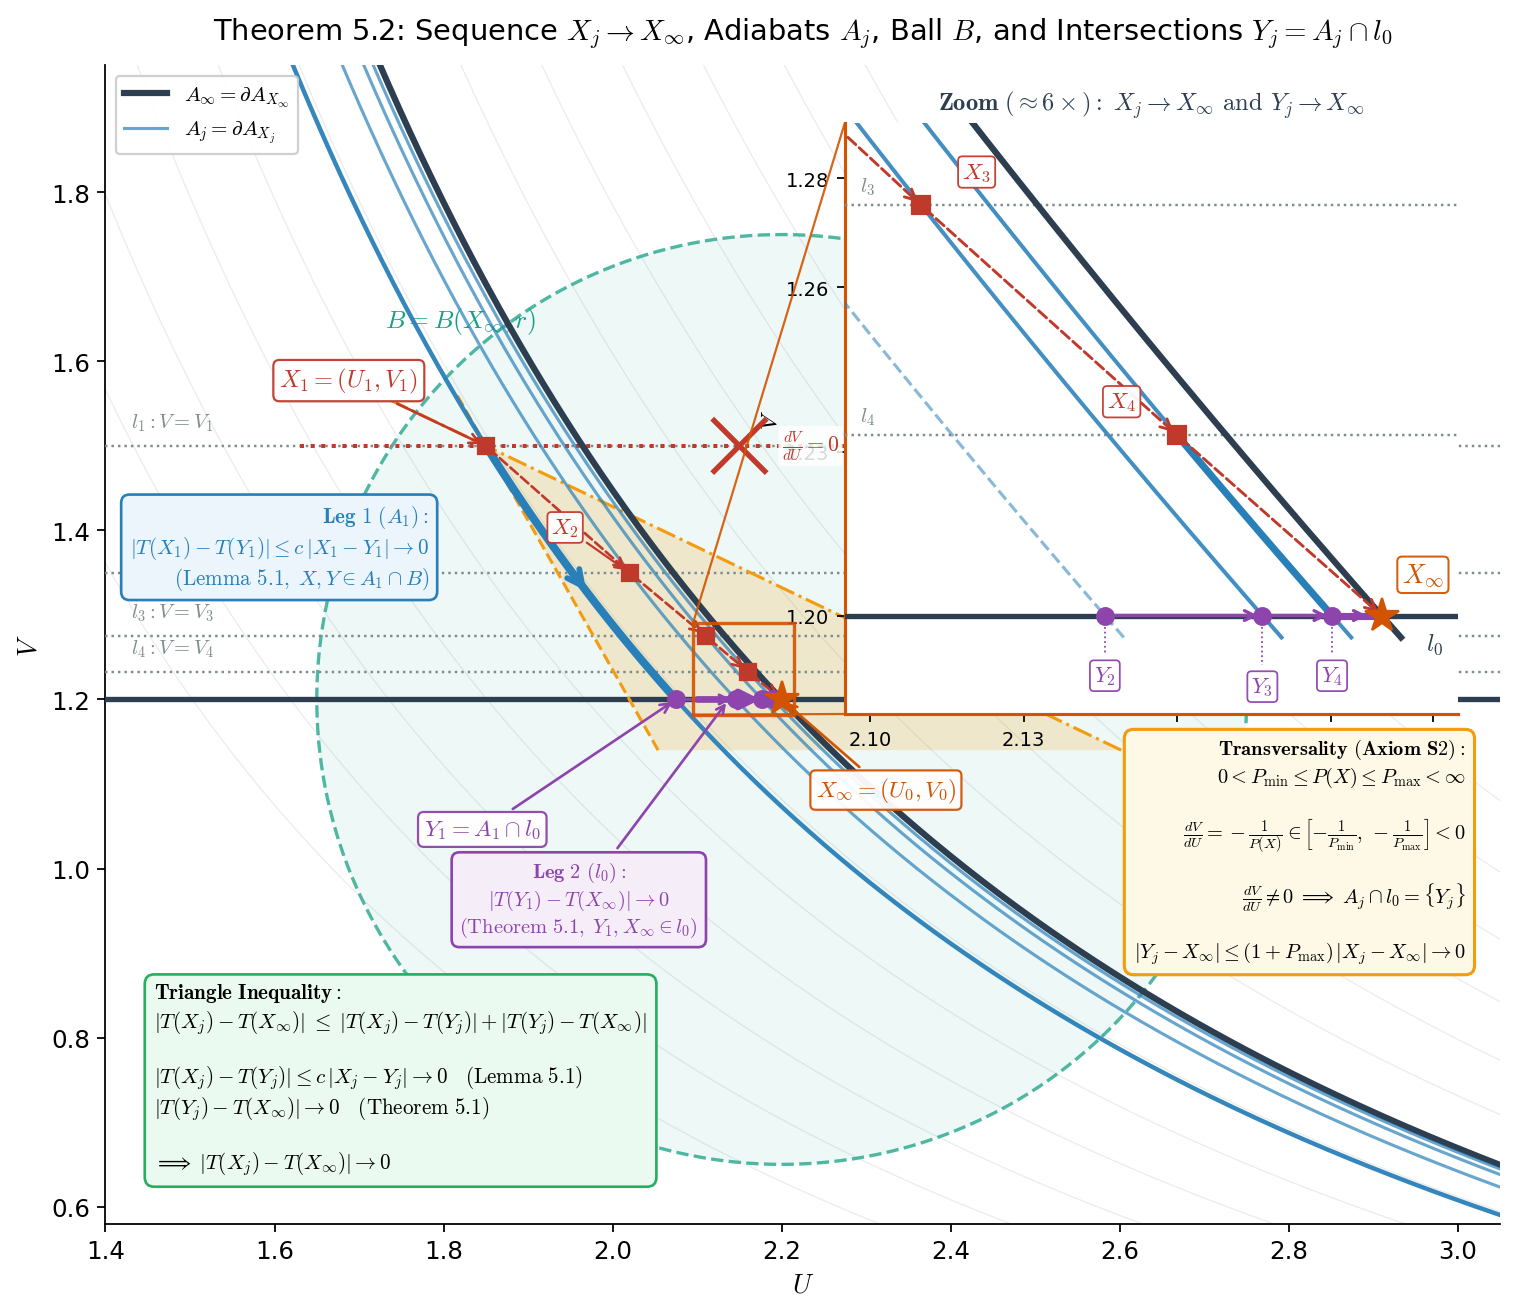
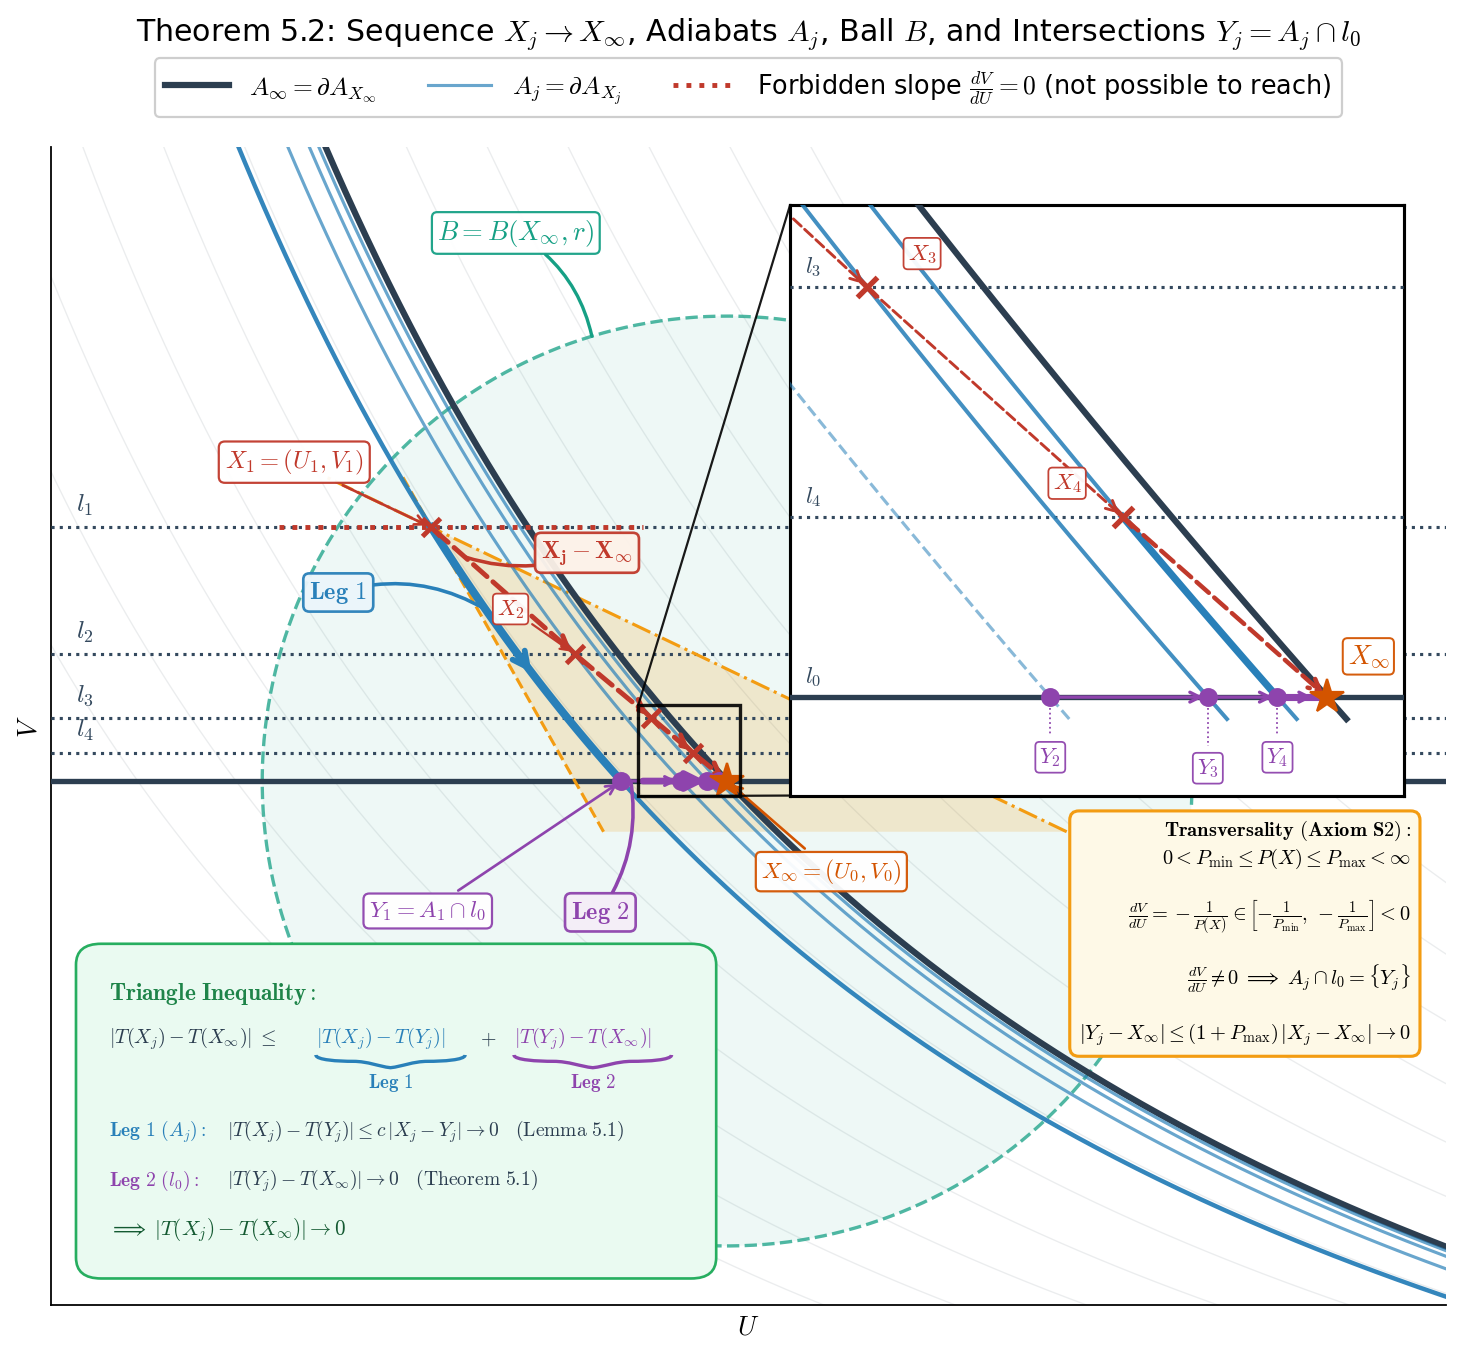
Polishing

diff --git a/Theorem_5-2/theorem52_visualization.py b/Theorem_5-2/theorem52_visualization.py
@@ -31,7 +31,8 @@ import os
 import sys
 import numpy as np
 import matplotlib.pyplot as plt
-from matplotlib.patches import Polygon
+from matplotlib.patches import Polygon, FancyBboxPatch, PathPatch
+from matplotlib.path import Path
 
 sys.path.insert(0, os.path.dirname(os.path.abspath(__file__)))
 from theorem52_model import (
@@ -58,7 +59,7 @@ C_ADIA_J = "#2980b9"   # sequence adiabats A_j                      (blue)
 C_PTS = "#c0392b"      # sequence points X_j                        (crimson)
 C_INTER = "#8e44ad"    # intersection points Y_j on l_0             (purple)
 C_L0 = "#2c3e50"       # base horizontal line l_0                   (dark slate)
-C_LJ = "#7f8c8d"       # horizontal lines l_j                       (grey)
+C_LJ = "#34495e"       # horizontal lines l_j                       (dark slate grey)
 C_BALL = "#16a085"     # neighborhood ball B                        (teal)
 C_CONE = "#f39c12"     # transversality cone                        (amber)
 C_LEG1 = "#2980b9"     # Leg 1 (along adiabat)                      (blue)
@@ -67,6 +68,31 @@ C_OK = "#27ae60"       # resolution / conclusion                    (green)
 C_BAD = "#c0392b"      # forbidden direction                        (red)
 
 script_dir = os.path.dirname(os.path.abspath(__file__))
+
+
+def add_curly_brace(ax, x1, x2, y, depth=0.012, color="blue", lw=1.5, zorder=20, transform=None):
+    """Draws a smooth curly underbrace pointing downwards between x1 and x2 at level y."""
+    mid = 0.5 * (x1 + x2)
+    w = x2 - x1
+    d = depth
+    verts = [
+        (x1, y),
+        (x1, y - 0.4 * d), (x1 + 0.15 * w, y - 0.5 * d), (x1 + 0.25 * w, y - 0.5 * d),
+        (mid - 0.15 * w, y - 0.5 * d), (mid - 0.08 * w, y - 0.9 * d), (mid, y - d),
+        (mid + 0.08 * w, y - 0.9 * d), (mid + 0.15 * w, y - 0.5 * d), (x2 - 0.25 * w, y - 0.5 * d),
+        (x2 - 0.15 * w, y - 0.5 * d), (x2, y - 0.4 * d), (x2, y)
+    ]
+    codes = [
+        Path.MOVETO,
+        Path.CURVE4, Path.CURVE4, Path.CURVE4,
+        Path.CURVE4, Path.CURVE4, Path.CURVE4,
+        Path.CURVE4, Path.CURVE4, Path.CURVE4,
+        Path.CURVE4, Path.CURVE4, Path.CURVE4
+    ]
+    patch = PathPatch(Path(verts, codes), facecolor="none", edgecolor=color,
+                      lw=lw, zorder=zorder, transform=transform, clip_on=False)
+    ax.add_patch(patch)
+    return patch
 
 
 def make_single_proof_plot_accentuated_zoom():
@@ -91,9 +117,15 @@ def make_single_proof_plot_accentuated_zoom():
     b_v = V0 + BALL_RADIUS * np.sin(phi)
     ax.fill(b_u, b_v, color=C_BALL, alpha=0.07, zorder=2, lw=0)
     ax.plot(b_u, b_v, color=C_BALL, ls="--", lw=1.5, alpha=0.75, zorder=2)
-    ax.text(U0 - 0.38, V0 + 0.43,
-            r"$B = B(X_\infty, r)$",
-            color=C_BALL, fontsize=11.5, fontweight="bold", ha="center", va="bottom")
+    # Curved link from ball label to the ball boundary itself
+    ax.annotate(r"$B = B(X_\infty, r)$",
+                xy=(2.04, 1.7262),
+                xytext=(1.95, 1.83),
+                arrowprops=dict(arrowstyle="-", connectionstyle="arc3,rad=-0.22",
+                                color=C_BALL, lw=1.5, shrinkA=0, shrinkB=0),
+                color=C_BALL, fontsize=12.0, fontweight="bold", ha="center", va="bottom",
+                bbox=dict(boxstyle="round,pad=0.20", fc="white", ec=C_BALL, lw=1.0, alpha=0.95),
+                zorder=10)
 
     # 3. Base Horizontal Line l_0: V = V_0
     ax.axhline(V0, color=C_L0, lw=2.4, zorder=3)
@@ -114,11 +146,11 @@ def make_single_proof_plot_accentuated_zoom():
         Vj = Xj[1]
         Kj = adiabat_const(*Xj)
 
-        # Horizontal line l_j: V = V_j
-        ax.axhline(Vj, color=C_LJ, ls=":", lw=1.1, zorder=3)
-        ax.text(u_min + 0.03, Vj + 0.015,
-                rf"$l_{j}: V = V_{j}$",
-                color=C_LJ, fontsize=9.2, ha="left", va="bottom")
+        # Horizontal line l_j
+        ax.axhline(Vj, color=C_LJ, ls=":", lw=1.4, zorder=3)
+        ax.text(u_min + 0.03, Vj + 0.012,
+                rf"$l_{j}$",
+                color=C_LJ, fontsize=11.5, fontweight="bold", ha="left", va="bottom")
 
         # Adiabat A_j through X_j
         line_w = 2.0 if j == 1 else 1.4
@@ -128,7 +160,7 @@ def make_single_proof_plot_accentuated_zoom():
                 alpha=alp, zorder=4, label=lbl)
 
         # Plot points X_j and Y_j
-        ax.plot(Xj[0], Xj[1], "s", color=C_PTS, ms=7.5, zorder=7)
+        ax.plot(Xj[0], Xj[1], "x", color=C_PTS, ms=8.5, mew=2.2, zorder=7)
         ax.plot(Yj[0], Yj[1], "o", color=C_INTER, ms=7.5, zorder=7)
 
         # Label points X_j on main plot with clean protective white boxes
@@ -149,15 +181,15 @@ def make_single_proof_plot_accentuated_zoom():
                         bbox=dict(boxstyle="round,pad=0.18", fc="white", ec=C_PTS, lw=0.8, alpha=0.95),
                         zorder=9)
 
-    # Directional arrows for X_j -> X_infinity on main plot
+    # Directional arrows for X_j -> X_infinity on main plot (direct path X_j - X_infinity)
     for j in range(len(seq_X) - 1):
         ax.annotate("", xy=(seq_X[j+1][0], seq_X[j+1][1]),
                     xytext=(seq_X[j][0], seq_X[j][1]),
-                    arrowprops=dict(arrowstyle="->", color=C_PTS, ls="--", lw=1.2,
-                                    mutation_scale=11), zorder=6)
+                    arrowprops=dict(arrowstyle="->", color=C_PTS, ls="--", lw=2.2,
+                                    mutation_scale=13), zorder=6)
     ax.annotate("", xy=(X0[0], X0[1]), xytext=(seq_X[-1][0], seq_X[-1][1]),
-                arrowprops=dict(arrowstyle="->", color=C_PTS, ls="--", lw=1.2,
-                                mutation_scale=11), zorder=6)
+                arrowprops=dict(arrowstyle="->", color=C_PTS, ls="--", lw=2.2,
+                                mutation_scale=13), zorder=6)
 
     # 6. Intersection points Y_j on l_0 on main plot (uncovered by any line)
     Y1 = seq_Y[0]
@@ -206,24 +238,38 @@ def make_single_proof_plot_accentuated_zoom():
                 arrowprops=dict(arrowstyle="->", color=C_LEG2, lw=3.0,
                                 mutation_scale=17), zorder=6)
 
-    # Card for Leg 1 (no sentences, purely symbolic, zorder=15 in front of curves)
-    ax.text(0.5 * (X1[0] + Y1[0]) - 0.18, 0.5 * (X1[1] + Y1[1]) + 0.03,
-            r"$\mathbf{Leg\ 1}\ (A_1):$" "\n"
-            r"$|T(X_1) - T(Y_1)| \leq c\,|X_1 - Y_1| \rightarrow 0$" "\n"
-            r"$(\mathrm{Lemma\ 5.1},\; X, Y \in A_1 \cap B)$",
-            color=C_LEG1, fontsize=9.5, ha="right", va="center",
-            bbox=dict(boxstyle="round,pad=0.40", fc="#ebf5fb", ec=C_LEG1, lw=1.2, alpha=1.0),
-            zorder=15)
+    # Leg 1 indication with curved link to the blue path along A_1 (no math)
+    leg1_target_idx = 32
+    ax.annotate(r"$\mathbf{Leg\ 1}$",
+                xy=(u_path[leg1_target_idx], v_path[leg1_target_idx]),
+                xytext=(u_path[leg1_target_idx] - 0.14, v_path[leg1_target_idx] + 0.02),
+                arrowprops=dict(arrowstyle="-", connectionstyle="arc3,rad=-0.22",
+                                color=C_LEG1, lw=1.6, shrinkA=0, shrinkB=0),
+                color=C_LEG1, fontsize=11.0, fontweight="bold", ha="right", va="center",
+                bbox=dict(boxstyle="round,pad=0.25", fc="#ebf5fb", ec=C_LEG1, lw=1.2, alpha=0.95),
+                zorder=15)
 
-    # Card for Leg 2 (placed right below the purple path on l_0, zorder=15 in front of curves)
-    ax.annotate(r"$\mathbf{Leg\ 2}\ (l_0):$" "\n"
-                r"$|T(Y_1) - T(X_\infty)| \rightarrow 0$" "\n"
-                r"$(\mathrm{Theorem\ 5.1},\; Y_1, X_\infty \in l_0)$",
-                xy=(0.5 * (Y1[0] + X0[0]), V0),
-                xytext=(1.96, 1.01),
-                arrowprops=dict(arrowstyle="->", color=C_LEG2, lw=1.2),
-                color=C_LEG2, fontsize=9.2, ha="center", va="top",
-                bbox=dict(boxstyle="round,pad=0.38", fc="#f5eef8", ec=C_LEG2, lw=1.2, alpha=1.0),
+    # Leg 2 indication with curved link to the purple path along l_0 (no math)
+    leg2_target_u = 2.086
+    ax.annotate(r"$\mathbf{Leg\ 2}$",
+                xy=(leg2_target_u, V0),
+                xytext=(2.05, V0 - 0.14),
+                arrowprops=dict(arrowstyle="-", connectionstyle="arc3,rad=0.20",
+                                color=C_LEG2, lw=1.6, shrinkA=0, shrinkB=0),
+                color=C_LEG2, fontsize=11.0, fontweight="bold", ha="center", va="top",
+                bbox=dict(boxstyle="round,pad=0.25", fc="#f5eef8", ec=C_LEG2, lw=1.2, alpha=0.95),
+                zorder=15)
+
+    # Direct vector / displacement X_j - X_infinity indication (for j=1)
+    target_u = 1.890
+    target_v = 1.465
+    ax.annotate(r"$\mathbf{X_j - X_\infty}$",
+                xy=(target_u, target_v),
+                xytext=(1.980, 1.470),
+                arrowprops=dict(arrowstyle="-", connectionstyle="arc3,rad=-0.18",
+                                color=C_PTS, lw=1.6, shrinkA=0, shrinkB=0),
+                color=C_PTS, fontsize=11.0, fontweight="bold", ha="left", va="center",
+                bbox=dict(boxstyle="round,pad=0.25", fc="#fdf2e9", ec=C_PTS, lw=1.2, alpha=0.95),
                 zorder=15)
 
     # 9. Transversality Cone on main plot
@@ -241,24 +287,54 @@ def make_single_proof_plot_accentuated_zoom():
     ax.plot(X1[0] + (v_cone - X1[1]) / s_min, v_cone, color=C_CONE, ls="--", lw=1.4, zorder=3)
     ax.plot(X1[0] + (v_cone - X1[1]) / s_max, v_cone, color=C_CONE, ls="-.", lw=1.4, zorder=3)
 
-    # Forbidden zero slope
-    x_cross = 2.15
-    ax.plot([X1[0] - 0.22, x_cross + 0.15], [X1[1], X1[1]], color=C_BAD, ls=":", lw=1.8, zorder=3)
-    ax.plot([x_cross - 0.03, x_cross + 0.03], [X1[1] - 0.03, X1[1] + 0.03], color=C_BAD, lw=2.4, zorder=6)
-    ax.plot([x_cross - 0.03, x_cross + 0.03], [X1[1] + 0.03, X1[1] - 0.03], color=C_BAD, lw=2.4, zorder=6)
-    ax.text(x_cross + 0.05, X1[1], r"$\frac{dV}{dU} = 0$", color=C_BAD, fontsize=9.8, va="center",
-            bbox=dict(boxstyle="round,pad=0.15", fc="white", ec="none", alpha=0.85), zorder=7)
+    # Forbidden zero slope (transversality forbids horizontal tangency dV/dU = 0)
+    ax.plot([X1[0] - 0.18, 2.10], [X1[1], X1[1]], color=C_BAD, ls=":", lw=2.2, zorder=4,
+            label=r"Forbidden slope $\frac{dV}{dU} = 0$ (not possible to reach)")
 
     # 10. Summary Triangle Inequality Card (bottom left, zorder=15 in front of curves)
-    ax.text(0.035, 0.04,
-            r"$\mathbf{Triangle\ Inequality}:$" "\n"
-            r"$|T(X_j) - T(X_\infty)| \;\leq\; |T(X_j) - T(Y_j)| + |T(Y_j) - T(X_\infty)|$" "\n\n"
-            r"$|T(X_j) - T(Y_j)| \leq c\,|X_j - Y_j| \rightarrow 0 \quad (\mathrm{Lemma\ 5.1})$" "\n"
-            r"$|T(Y_j) - T(X_\infty)| \rightarrow 0 \quad (\mathrm{Theorem\ 5.1})$" "\n\n"
-            r"$\Longrightarrow\; |T(X_j) - T(X_\infty)| \rightarrow 0$",
-            transform=ax.transAxes, ha="left", va="bottom", fontsize=9.5,
-            bbox=dict(boxstyle="round,pad=0.45", fc="#eafaf1", ec=C_OK, lw=1.2, alpha=1.0),
-            zorder=15)
+    card = FancyBboxPatch((0.030, 0.035), 0.435, 0.265,
+                          boxstyle="round,pad=0.012,rounding_size=0.018",
+                          fc="#eafaf1", ec=C_OK, lw=1.2,
+                          transform=ax.transAxes, zorder=15)
+    ax.add_patch(card)
+
+    # Title
+    ax.text(0.042, 0.280, r"$\mathbf{Triangle\ Inequality}:$", transform=ax.transAxes,
+            fontsize=10.5, fontweight="bold", color="#1e8449", zorder=16, va="top")
+
+    # Equation with colored terms and comfortable spacing (fs=9.0 to fit with CM math fonts)
+    ax.text(0.042, 0.230, r"$|T(X_j) - T(X_\infty)| \;\leq\;$", transform=ax.transAxes,
+            fontsize=9.0, color="#2c3e50", zorder=16, va="center")
+    ax.text(0.190, 0.230, r"$|T(X_j) - T(Y_j)|$", transform=ax.transAxes,
+            fontsize=9.0, color=C_LEG1, zorder=16, va="center")
+    ax.text(0.308, 0.230, r"$+$", transform=ax.transAxes,
+            fontsize=9.0, color="#2c3e50", zorder=16, va="center")
+    ax.text(0.332, 0.230, r"$|T(Y_j) - T(X_\infty)|$", transform=ax.transAxes,
+            fontsize=9.0, color=C_LEG2, zorder=16, va="center")
+
+    # Underbraces with matching colors
+    add_curly_brace(ax, 0.190, 0.297, 0.216, depth=0.011, color=C_LEG1, lw=1.5, zorder=17, transform=ax.transAxes)
+    ax.text(0.2435, 0.202, r"$\mathbf{Leg\ 1}$", transform=ax.transAxes,
+            fontsize=8.5, fontweight="bold", color=C_LEG1, zorder=17, ha="center", va="top")
+
+    add_curly_brace(ax, 0.332, 0.445, 0.216, depth=0.011, color=C_LEG2, lw=1.5, zorder=17, transform=ax.transAxes)
+    ax.text(0.3885, 0.202, r"$\mathbf{Leg\ 2}$", transform=ax.transAxes,
+            fontsize=8.5, fontweight="bold", color=C_LEG2, zorder=17, ha="center", va="top")
+
+    # Subordinate lines with colored Leg tags
+    ax.text(0.042, 0.150, r"$\mathbf{Leg\ 1}\ (A_j):$", transform=ax.transAxes,
+            fontsize=8.8, fontweight="bold", color=C_LEG1, zorder=16, va="center")
+    ax.text(0.126, 0.150, r"$|T(X_j) - T(Y_j)| \leq c\,|X_j - Y_j| \rightarrow 0 \quad (\mathrm{Lemma\ 5.1})$",
+            transform=ax.transAxes, fontsize=8.8, color="#2c3e50", zorder=16, va="center")
+
+    ax.text(0.042, 0.108, r"$\mathbf{Leg\ 2}\ (l_0):$", transform=ax.transAxes,
+            fontsize=8.8, fontweight="bold", color=C_LEG2, zorder=16, va="center")
+    ax.text(0.126, 0.108, r"$|T(Y_j) - T(X_\infty)| \rightarrow 0 \quad (\mathrm{Theorem\ 5.1})$",
+            transform=ax.transAxes, fontsize=8.8, color="#2c3e50", zorder=16, va="center")
+
+    # Conclusion
+    ax.text(0.042, 0.065, r"$\Longrightarrow\; |T(X_j) - T(X_\infty)| \rightarrow 0$",
+            transform=ax.transAxes, fontsize=9.5, fontweight="bold", color="#145a32", zorder=16, va="center")
 
     # 11. Transversality Card (lower right, explicitly in front of all plot curves with zorder=15)
     ax.text(0.975, 0.42,
@@ -290,9 +366,9 @@ def make_single_proof_plot_accentuated_zoom():
 
     # Inset horizontal line l_0
     axins.axhline(V0, color=C_L0, lw=2.4, zorder=3)
-    axins.text(u_zmax - 0.003, V0 - 0.003, r"$l_0$", color=C_L0,
-               fontsize=11.0, ha="right", va="top", fontweight="bold",
-               bbox=dict(boxstyle="round,pad=0.15", fc="white", ec="none", alpha=0.90), zorder=9)
+    axins.text(u_zmin + 0.003, V0 + 0.0015, r"$l_0$", color=C_LJ,
+               fontsize=10.5, ha="left", va="bottom", fontweight="bold",
+               bbox=dict(boxstyle="round,pad=0.12", fc="white", ec="none", alpha=0.85), zorder=9)
 
     # Base adiabat in zoom
     axins.plot(adiabat_U(v_zgrid, K0), v_zgrid, color=C_ADIA_0, lw=2.8, zorder=4)
@@ -304,16 +380,16 @@ def make_single_proof_plot_accentuated_zoom():
         Kj = adiabat_const(*Xj)
 
         # Horizontal line l_j
-        axins.axhline(Vj, color=C_LJ, ls=":", lw=1.1, zorder=3)
+        axins.axhline(Vj, color=C_LJ, ls=":", lw=1.4, zorder=3)
         axins.text(u_zmin + 0.003, Vj + 0.0015, rf"$l_{j}$",
-                   color=C_LJ, fontsize=9.5, ha="left", va="bottom",
+                   color=C_LJ, fontsize=10.5, ha="left", va="bottom", fontweight="bold",
                    bbox=dict(boxstyle="round,pad=0.12", fc="white", ec="none", alpha=0.85), zorder=9)
 
         # Adiabat curve
         axins.plot(adiabat_U(v_zgrid, Kj), v_zgrid, color=C_ADIA_J, lw=1.8, alpha=0.88, zorder=4)
 
         # Point X_j
-        axins.plot(Xj[0], Xj[1], "s", color=C_PTS, ms=8.0, zorder=7)
+        axins.plot(Xj[0], Xj[1], "x", color=C_PTS, ms=9.0, mew=2.4, zorder=7)
 
         # Clean label for X_j
         if j == 3:
@@ -354,8 +430,8 @@ def make_single_proof_plot_accentuated_zoom():
                    arrowprops=dict(arrowstyle="->", color=C_PTS, ls="--", lw=1.3,
                                    mutation_scale=12), zorder=6)
     axins.annotate("", xy=(X0[0], X0[1]), xytext=(seq_X[3][0], seq_X[3][1]),
-                   arrowprops=dict(arrowstyle="->", color=C_PTS, ls="--", lw=1.3,
-                                   mutation_scale=12), zorder=6)
+                   arrowprops=dict(arrowstyle="->", color=C_PTS, ls="--", lw=2.0,
+                                   mutation_scale=13), zorder=6)
 
     # Directional arrows Y_2 -> Y_3 -> Y_4 -> X_infinity along l_0 in zoom
     axins.annotate("", xy=(seq_Y[2][0], V0), xytext=(seq_Y[1][0], V0),
@@ -385,32 +461,33 @@ def make_single_proof_plot_accentuated_zoom():
     axins.plot([Y4[0], X0[0]], [V0, V0], color=C_LEG2, lw=3.2, zorder=5)
 
     # Inset styling
-    axins.set_title(r"$\mathbf{Zoom\ (\approx 6\times):}\ X_j \to X_\infty \text{ and } Y_j \to X_\infty$",
-                    fontsize=11.0, pad=6, color="#2c3e50")
-    axins.set_xlabel(r"$U$", fontsize=10.5, labelpad=2)
-    axins.set_ylabel(r"$V$", fontsize=10.5, labelpad=2)
-    axins.set_xticks([2.10, 2.13, 2.16, 2.19, 2.21])
-    axins.set_yticks([1.20, 1.23, 1.26, 1.28])
-    axins.tick_params(axis="both", which="major", labelsize=8.8)
+    axins.set_xticks([])
+    axins.set_yticks([])
 
-    # Border of inset
+    # Border of inset (ensure all 4 sides are visible and black)
     for spine in axins.spines.values():
-        spine.set_edgecolor(C_BASE)
+        spine.set_visible(True)
+        spine.set_edgecolor("black")
         spine.set_linewidth(1.4)
 
     # Indicate the zoom area on the main axes with connection lines (in front of curves)
-    ax.indicate_inset_zoom(axins, edgecolor=C_BASE, alpha=0.90, lw=1.5, zorder=9)
+    ax.indicate_inset_zoom(axins, edgecolor="black", alpha=0.90, lw=1.5, zorder=9)
 
     # Main axes labels & limits
     ax.set_xlim(u_min, u_max)
     ax.set_ylim(v_min, v_max)
+    ax.set_xticks([])
+    ax.set_yticks([])
     ax.set_xlabel(r"$U$")
     ax.set_ylabel(r"$V$")
     ax.set_title(
         r"Theorem 5.2: Sequence $X_j \to X_\infty$, Adiabats $A_j$, Ball $B$, and Intersections $Y_j = A_j \cap l_0$",
-        fontsize=13.0, pad=12
+        fontsize=13.5, pad=48
     )
-    ax.legend(loc="upper left", fontsize=9.5, framealpha=0.92)
+    ax.legend(
+        loc="lower center", bbox_to_anchor=(0.5, 1.015), ncol=3,
+        fontsize=11.5, frameon=True, framealpha=0.95, handlelength=2.5
+    )
 
     out_path = os.path.join(script_dir, "theorem52_visualization.png")
     fig.savefig(out_path, dpi=160, bbox_inches="tight")
